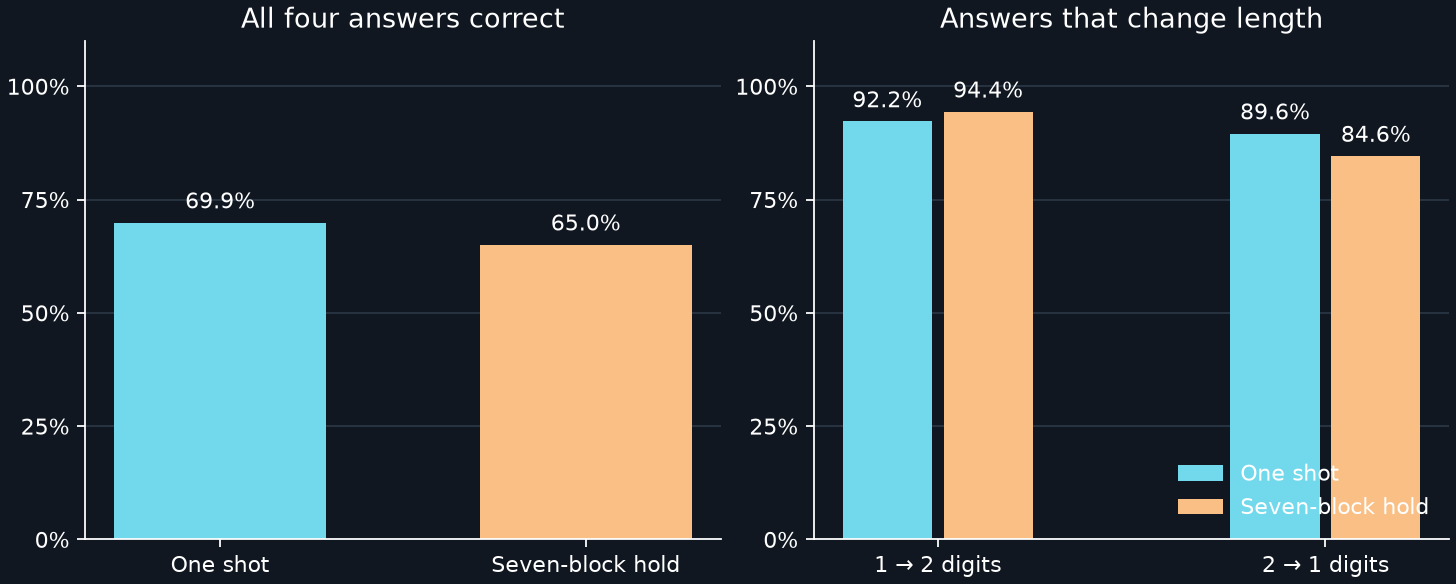
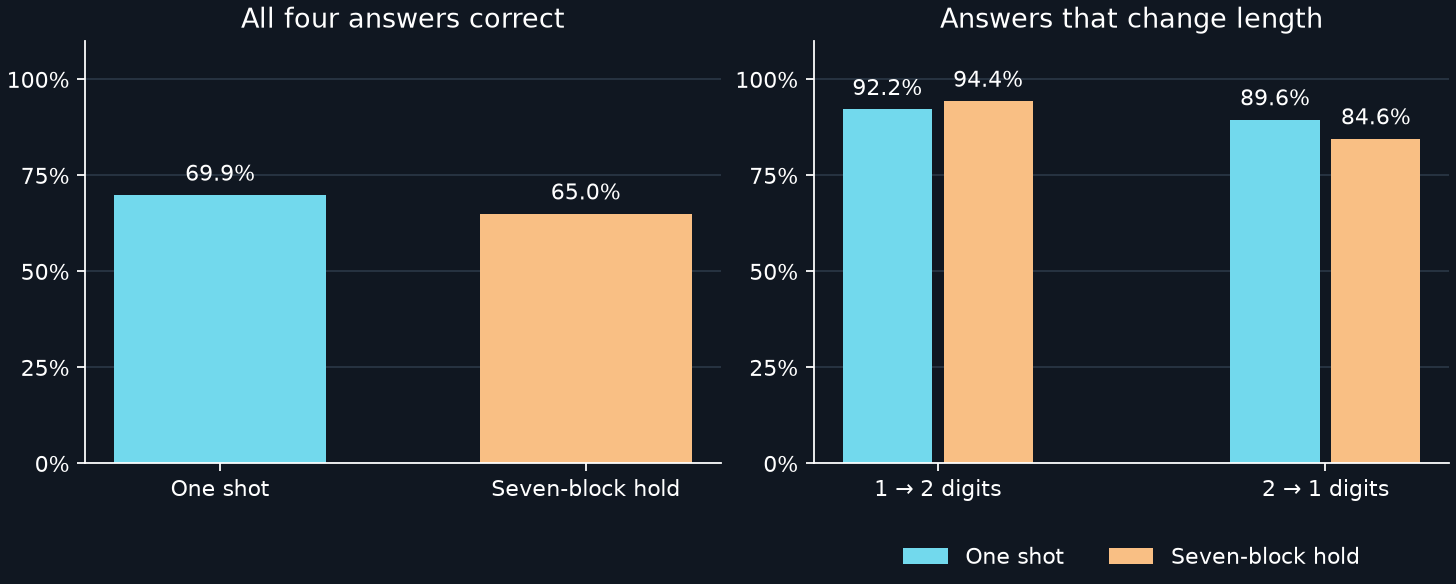
Link the published hold study and clarify its figure legend

diff --git a/nested_surgery/numeric_hold_32b_study/figure.py b/nested_surgery/numeric_hold_32b_study/figure.py
@@ -30,5 +30,5 @@ for j, (arm, label, color) in enumerate(zip(keys, labels, colors, strict=True)):
     data = [100 * row["correct"][arm] / row["total"] for row in audit["directions"].values()]
     bars = right.bar(np.arange(2) + (j - .5) * .26, data, color=color, width=.23, label=label)
     right.bar_label(bars, labels=[f"{v:.1f}%" for v in data], padding=4)
-right.legend(loc="lower right", frameon=False)
+right.legend(loc="upper center", bbox_to_anchor=(.5, -.15), ncol=2, frameon=False)
 fig.savefig(root / "held-carry.png", dpi=160)

diff --git a/nested_surgery/numeric_hold_32b_study/README.md b/nested_surgery/numeric_hold_32b_study/README.md
@@ -23,4 +23,4 @@ The hold improved 27 groups and lost 52, yielding **−4.88 percentage points** 
 
 Recompute program validity, outcome overlaps and paired intervals with `uv run --with numpy python nested_surgery/numeric_hold_32b_study/verify.py`. The run took 6 minutes 40 seconds and used 67.1 GB peak MLX allocation on an Apple M5 Ultra with 80 GPU cores, 256 GiB unified memory and Metal 4. The environment was macOS 27.2 (26B118), Python 3.12.16, MLX 0.32.4, MLX-LM 0.32.2, NumPy 2.5.5 and tokenizers 0.23.3. The owner proposed the fixed reference and transplanted experts. OpenAI Codex implemented and ran the paired comparison, audited the outputs and assisted with writing. [Execution receipt](results/receipt.json) · [Independent audit](audit.json)
 
-[Pubroot submission and review](https://github.com/buildngrowsv/pubroot-website/issues/486)
+[Published Pubroot article](https://pubroot.com/ai/fine-tuning/a-seven-block-fixed-reference-reduced-complete-32b-carry-reversals/) · [Submission and review](https://github.com/buildngrowsv/pubroot-website/issues/486)
